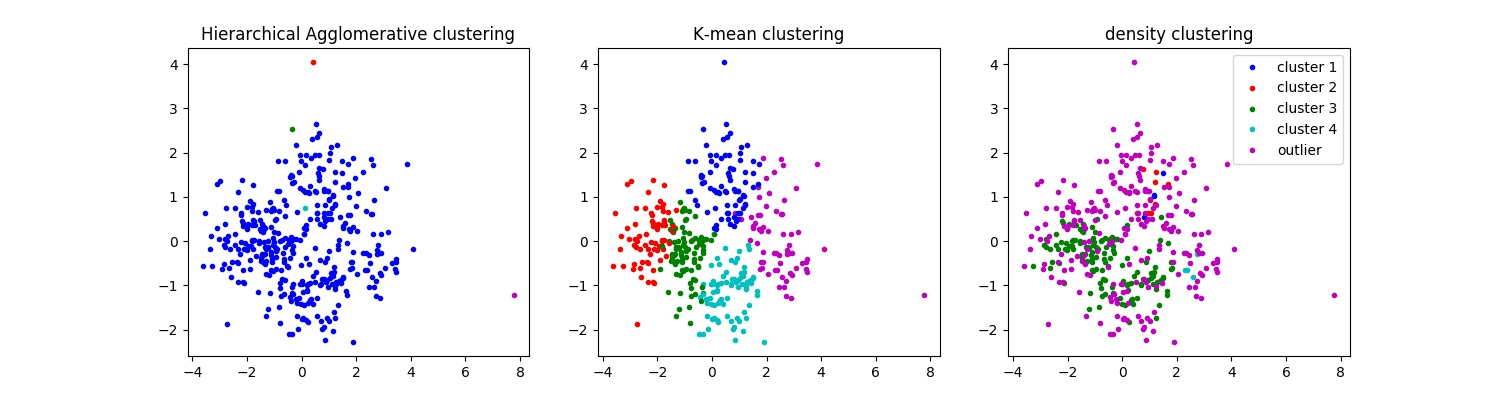
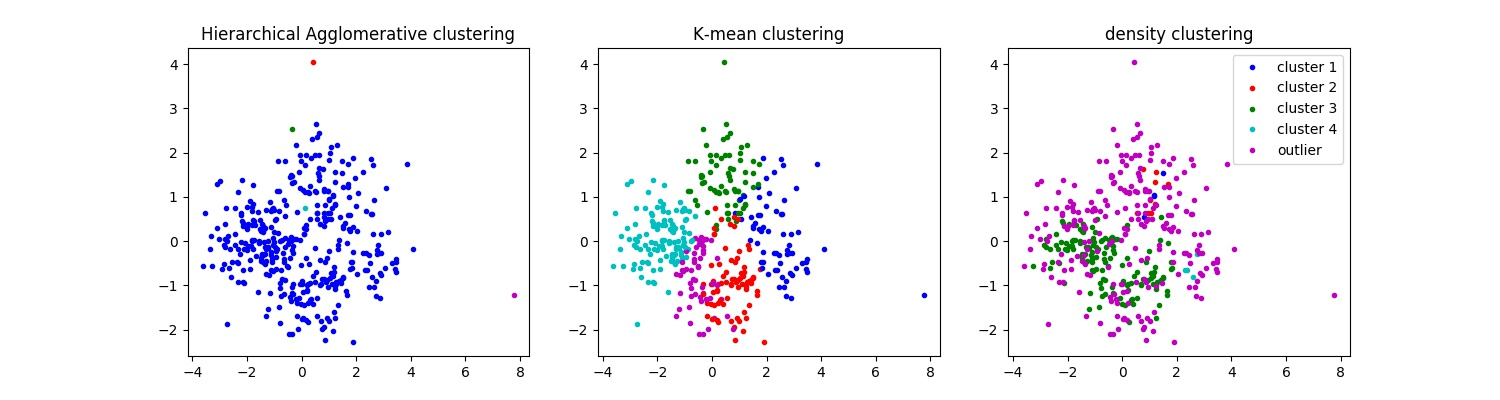
random partition

Changed region(s): [[0.3987, 0.3, 0.552, 0.87]]

diff --git a/Code/k_mean.py b/Code/k_mean.py
@@ -14,9 +14,15 @@ min_supp = 3
 ep = 1
 
 
-def k_mean(K, genes):
-    cluster = {i: data[len(data) * i // K:len(data) * (i + 1) // K, 2:] for i in range(K)}
-    centroids = compute_new_centroids(cluster)
+def k_mean(K, num_iter=0, center=[]):
+    if center == []:
+        suffle_data = data.copy()
+        np.random.shuffle(suffle_data)
+
+        cluster = {i: suffle_data[len(data) * i // K:len(data) * (i + 1) // K, 2:] for i in range(K)}
+        centroids = compute_new_centroids(cluster)
+    else:
+        centroids = [genes[c] for c in center]
 
     labels, cluster, centroids_new = add_to_cluster(centroids)
 
@@ -140,7 +146,7 @@ def euclidean(point1, point2):
 
 cluster, density_labels, out = density_cluster(min_supp, ep)
 c, target = hier_agg_cluster(K)
-k_mean_cluster, labels = k_mean(K, genes)
+k_mean_cluster, labels = k_mean(K, 0, [])
 testData = data[:, 2:]
 pca = PCA(n_components=len(testData[0]))
 d = pca.fit_transform(testData)
@@ -167,6 +173,6 @@ for i in cluster:
 ax[2].plot(d[out, 0], d[out, 1], color[c + 1], markersize=3)
 legends_label.append("outlier")
 ax[2].legend(legends_label,
-           loc='upper right')
+             loc='upper right')
 plt.savefig("hier.jpg")
 plt.show()
